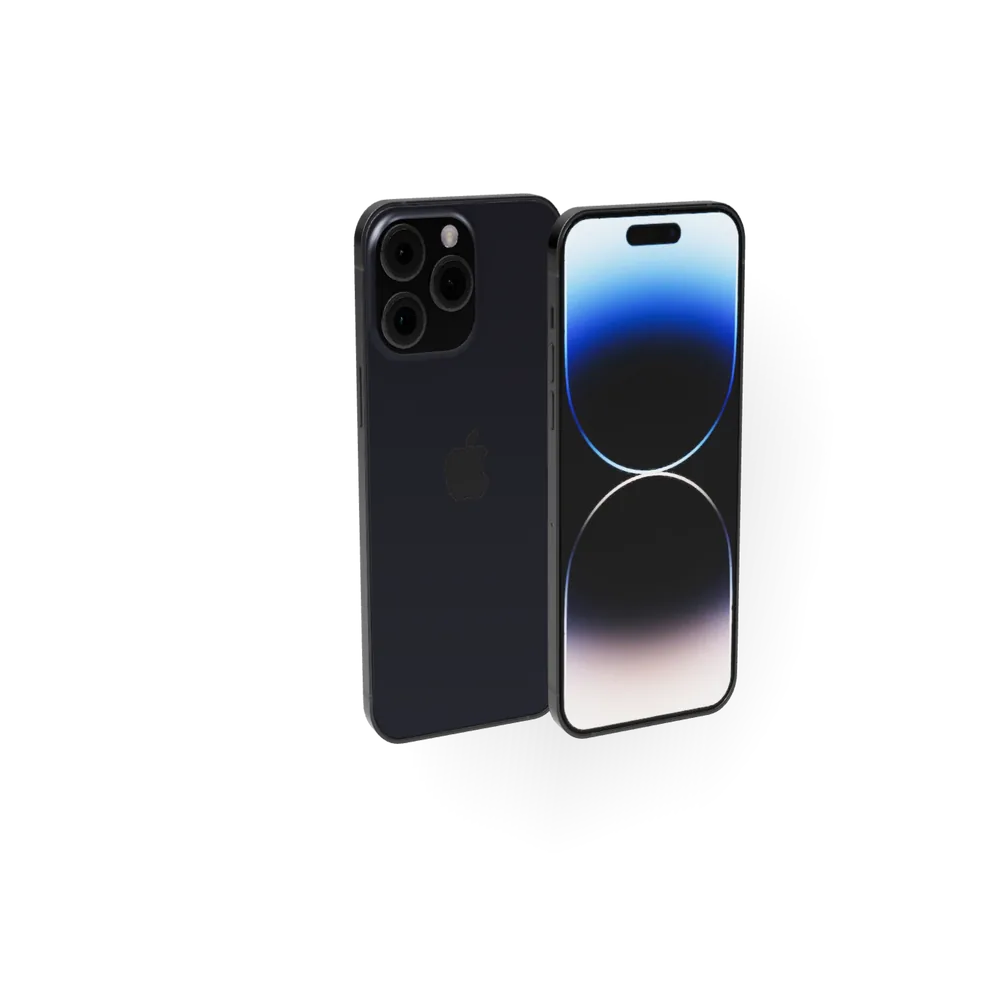
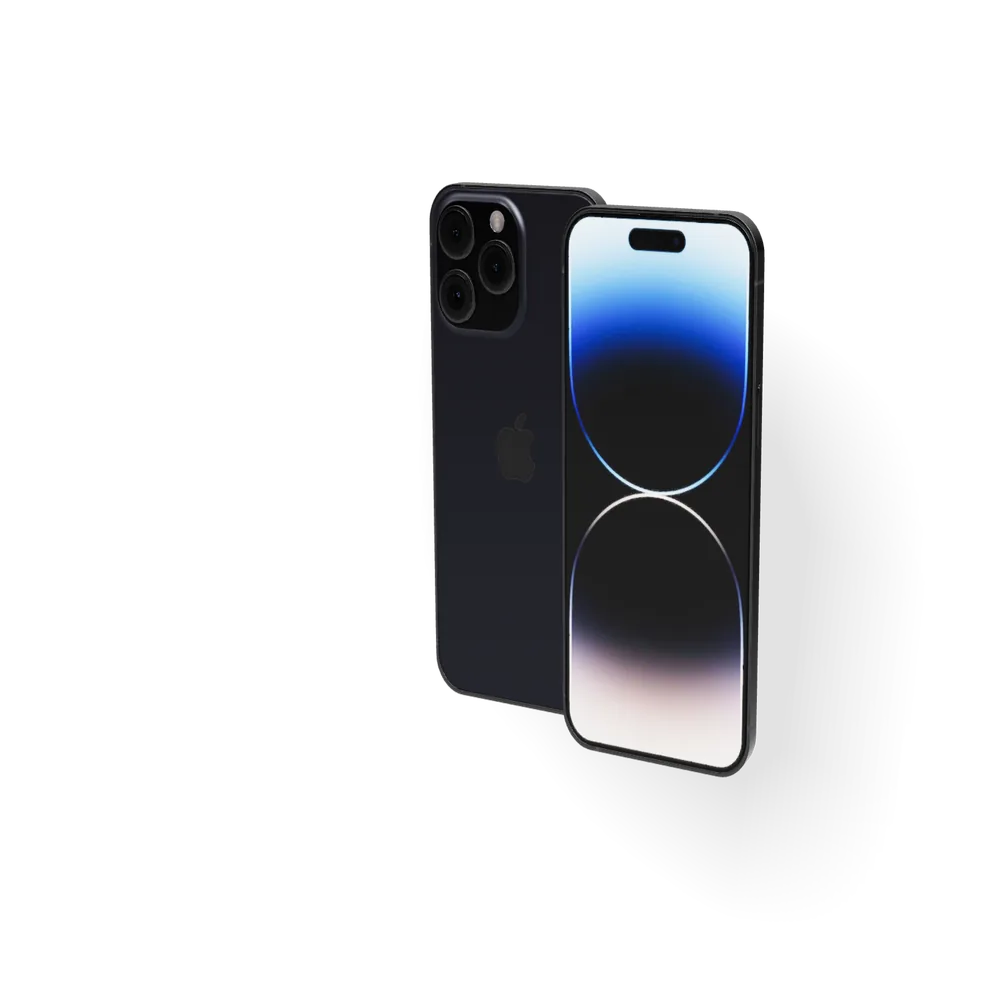
3D wheel: turn devices the other way, bigger laptop, phone on the near side
Size by area and height; wider canvas and capped wall so the laptop shadow fits;
the shadow wall no longer hides glass behind it.

Claude-Session: https://claude.ai/code/session_01RbTaUxdV4TewZdRLLdDhNP

Changed region(s): [[0.341, 0.155, 0.837, 0.806]]

diff --git a/devices.js b/devices.js
@@ -38,7 +38,7 @@ function init() {
   const reduce = matchMedia("(prefers-reduced-motion: reduce)").matches;
   const finePointer = matchMedia("(hover: hover) and (pointer: fine)").matches;
   const rad = THREE.MathUtils.degToRad;
-  const YAW = rad(25), ELEV = rad(12); // every device rests turned 25°, left side closer, seen from a little above
+  const YAW = rad(-25), ELEV = rad(12); // every device rests turned 25°, right side closer, seen from a little above
 
   /* ---- 3D: one small scene per device, all lit the same ---- */
   const views = devs.map((el) => {
@@ -82,23 +82,23 @@ function init() {
       back.position.set(-size.x * 0.85, size.y * 0.02, -size.x * 0.15);
       grp.add(back);
     }
-    if (phone) { // an iPhone standing beside the laptop's left side, at real-world scale: 14.75 cm tall next to a 31.26 cm wide MacBook
+    if (phone) { // an iPhone standing beside the laptop's right side, the side turned toward you, at real-world scale: 14.75 cm tall next to a 31.26 cm wide MacBook
       prep(phone);
       const ps = centre(phone), ph = new THREE.Group();
       ph.add(phone);
       ph.rotation.y = Math.PI;
       ph.scale.setScalar((0.1475 / 0.3126) * size.x / ps.y);
       const pw = ps.x * ph.scale.x;
-      ph.position.set(-size.x / 2 - size.x * 0.08 - pw / 2, -size.y / 2 + ps.y * ph.scale.y / 2, size.z * 0.15);
+      ph.position.set(size.x / 2 + size.x * 0.04 + pw / 2, -size.y / 2 + ps.y * ph.scale.y / 2, size.z * 0.15);
       grp.add(ph);
     }
-    // measure it as seen at rest, then scale to the same visual weight: half its area, half its longest side
+    // measure it as seen at rest, then scale to the same visual weight: half its area, half its height
     v.pivot.rotation.y = YAW;
     v.pivot.add(grp);
     v.pivot.updateMatrixWorld(true);
     const box = new THREE.Box3();
     grp.traverse((m) => { if (m.isMesh && !m.name.startsWith("pen")) box.expandByObject(m); }); // size by the device, not an S Pen
-    const s = box.getSize(new THREE.Vector3()), k = 0.85 / (Math.sqrt(s.x * s.y) / 2 + Math.max(s.x, s.y) / 2); // area alone makes a lone tall phone look huge
+    const s = box.getSize(new THREE.Vector3()), k = Math.min(0.85 / (Math.sqrt(s.x * s.y) / 2 + s.y / 2), 1.25 / s.x); // area alone makes a lone tall phone look huge; capped to the frame width
     grp.scale.setScalar(k);
     grp.position.copy(v.pivot.worldToLocal(box.getCenter(new THREE.Vector3()))).multiplyScalar(-k);
 
@@ -106,7 +106,7 @@ function init() {
     const dir = new THREE.Vector3(0, Math.sin(ELEV), Math.cos(ELEV));
     v.cam = new THREE.PerspectiveCamera(27, 1, 0.01, 100); // about a 50 mm lens
     v.cam.position.copy(dir).multiplyScalar(0.8 / Math.tan(rad(13.5)));
-    v.cam.zoom = 0.8 / 1.1; // the canvas is 2.2 frame sizes wide, room for the whole shadow
+    v.cam.zoom = 0.8 / 1.25; // the canvas is 2.5 frame sizes wide, room for the whole shadow
     v.cam.updateProjectionMatrix();
     v.cam.lookAt(0, 0, 0);
     const sun = new THREE.DirectionalLight(0xffffff, 1.2);
@@ -118,10 +118,10 @@ function init() {
     sun.shadow.bias = -0.0005;
     sun.shadow.normalBias = 0.01;
     Object.assign(sun.shadow.camera, { left: -1.5, right: 1.5, top: 1.5, bottom: -1.5, near: 0.1, far: 30 });
-    const wall = new THREE.Mesh(new THREE.PlaneGeometry(6, 6), new THREE.ShadowMaterial({ opacity: 0.11 }));
+    const wall = new THREE.Mesh(new THREE.PlaneGeometry(6, 6), new THREE.ShadowMaterial({ opacity: 0.11, depthWrite: false }));
     wall.receiveShadow = true; // invisible wall just behind the device that only shows the shadow
     wall.lookAt(dir);
-    wall.position.copy(dir).multiplyScalar(-(s.z * k / 2 + 0.12));
+    wall.position.copy(dir).multiplyScalar(-Math.min(s.z * k / 2 + 0.12, 0.3)); // capped: a deep laptop would throw its shadow off the canvas
     v.scene.add(sun, sun.target, wall);
   }
 
@@ -157,7 +157,7 @@ function init() {
     root.style.setProperty("--cx", cx + "px");
     root.style.setProperty("--cy", cy + "px");
     root.style.setProperty("--r", gap / Math.sin(STEP * Math.PI / 180) + "px"); // the radius that puts a neighbour exactly gap sideways
-    views.forEach((v) => { v.r.setSize(D * 2.2, D * 2.2, false); v.key = ""; });
+    views.forEach((v) => { v.r.setSize(D * 2.5, D * 2.5, false); v.key = ""; });
     kick();
     secTop = sec.getBoundingClientRect().top + scrollY;
     step = Math.max(1, sec.offsetHeight - vh) / Math.max(1, n - 1);

diff --git a/style.css b/style.css
@@ -31,7 +31,7 @@ a { color: inherit; text-decoration: none; }
   will-change: transform; pointer-events: auto; touch-action: pan-y; -webkit-tap-highlight-color: transparent; user-select: none; -webkit-user-select: none;
 }
 .dv:focus-visible { outline: none; }
-.dv :is(img, canvas) { position: absolute; left: -60%; top: -60%; width: 220%; height: 220%; pointer-events: none; }
+.dv :is(img, canvas) { position: absolute; left: -75%; top: -75%; width: 250%; height: 250%; pointer-events: none; }
 .dv canvas { opacity: 0; transition: opacity .4s; }
 .dv.is-3d canvas { opacity: 1; }
 .dv.is-3d img { opacity: 0; transition: opacity .4s; }

diff --git a/README.md b/README.md
@@ -37,7 +37,7 @@ To use your own content, edit the `DEVICES` array in `data.js`:
 | `title` | Big name above the table |
 | `keywords` | Rows in the table (label, value) |
 | `model` | `.glb` of the device, compressed (see below). Any scale: it is fitted to size |
-| `image` | Still of the same model in a transparent square, shown until the model loads. The device is 1/2.2 of the image |
+| `image` | Still of the same model in a transparent square, shown until the model loads. The frame is 1/2.5 of the image |
 | `front` | Degrees to turn the model so its screen faces you (optional) |
 | `pair` | `true` shows two copies, back behind and screen in front (optional) |
 | `phone` | `.glb` of a phone to stand beside the laptop (optional) |
